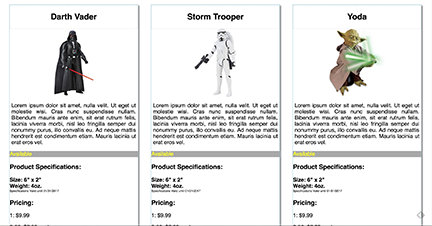
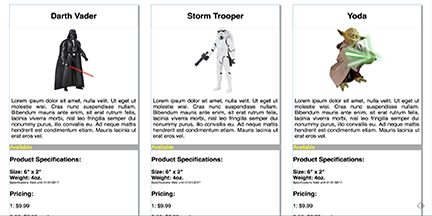
flexed project cards to make them equal height

diff --git a/index.html b/index.html
@@ -52,44 +52,38 @@
 	         		<h2>Projects</h2>
 	         	</div>
 	         	<div class="row thumbnail-wrapper">
-	         		<!-- product cards -->
-					<article class="col-sm-6 col-md-4">
-					    <div class="thumbnail thumb-box">
-					      	<img src="/images/product-cards-thumb.png" alt="..." class="thumb-img">
-				      		<div class="thumb-caption">
-					        	<h3>Product Cards</h3>
-					        	<p>An exercise using CSS and HTML to generate product cards.</p>
-					        	<p>
-					        		<a href="https://github.com/Jufebrown/exercises-static-web-product-cards" class="btn btn-default github-button" role="button">Github</a>
-					        	</p>
-				      		</div>
-				    	</div>
-				  	</article>
-				  	<!-- music history -->
-				  	<article class="col-sm-6 col-md-4">
-					    <div class="thumbnail thumb-box">
-					      	<img src="/images/music-history.png" alt="..." class="thumb-img">
-				      		<div class="thumb-caption">
-					        	<h3>Music History</h3>
-					        	<p>An exercise using CSS and HTML format a web page about music.</p>
-					        	<p>
-					        		<a href="https://github.com/Jufebrown/musichistory-boilerplate" class="btn btn-default github-button" role="button">Github</a>
-					        	</p>
-				      		</div>
-				    	</div>
-				  	</article>
-				  	<article class="col-sm-6 col-md-4">
-					    <div class="thumbnail thumb-box">
-					      	<img src="/images/product-cards-thumb.png" alt="..." class="thumb-img">
-				      		<div class="thumb-caption">
-					        	<h3>Product Cards</h3>
-					        	<p>An exercise using CSS and HTML to generate product cards.</p>
-					        	<p>
-					        		<a href="https://github.com/Jufebrown/musichistory-boilerplate" class="btn btn-default github-button" role="button">Github</a>
-					        	</p>
-				      		</div>
-				    	</div>
-				  	</article>
+         			<!-- product cards -->
+				    <article class="thumbnail thumb-box col-sm-6 col-md-4">
+				      	<img src="/images/product-cards-thumb.png" alt="..." class="thumb-img">
+			      		<div class="thumb-caption">
+				        	<h3>Product Cards</h3>
+				        	<p>An exercise using CSS and HTML to generate product cards.</p>
+				        	<p>
+				        		<a href="https://github.com/Jufebrown/exercises-static-web-product-cards" class="btn btn-default github-button" role="button">Github</a>
+				        	</p>
+			      		</div>
+			    	</article>
+			  		<!-- music history -->
+				    <article class="thumbnail thumb-box col-sm-6 col-md-4">
+				      	<img src="/images/music-history.png" alt="..." class="thumb-img">
+			      		<div class="thumb-caption">
+				        	<h3>Music History</h3>
+				        	<p>An exercise using CSS and HTML to format a web page about music.</p>
+				        	<p>
+				        		<a href="https://github.com/Jufebrown/musichistory-boilerplate" class="btn btn-default github-button" role="button">Github</a>
+				        	</p>
+			      		</div>
+			    	</article>
+				    <article class="thumbnail thumb-box col-sm-6 col-md-4">
+				      	<img src="/images/product-cards-thumb.png" alt="..." class="thumb-img">
+			      		<div class="thumb-caption">
+				        	<h3>Product Cards</h3>
+				        	<p>An exercise using CSS and HTML to generate product cards.</p>
+				        	<p>
+				        		<a href="https://github.com/Jufebrown/musichistory-boilerplate" class="btn btn-default github-button" role="button">Github</a>
+				        	</p>
+			      		</div>
+			    	</article>
 				</div>
 			</div>
 			<!-- End Projects -->

diff --git a/main.css b/main.css
@@ -47,9 +47,13 @@ body {
 
 .thumbnail-wrapper {
 	margin: 2.5% 20px 2.5% 20px;
+	display: flex;
+	flex-direction: row;
+	align-items: stretch;
 }
 
 .thumb-box {
+	margin: 2.5% 20px 2.5% 20px;
 	background: rgba(0,0,0,.5);
 	border: none;
 }
